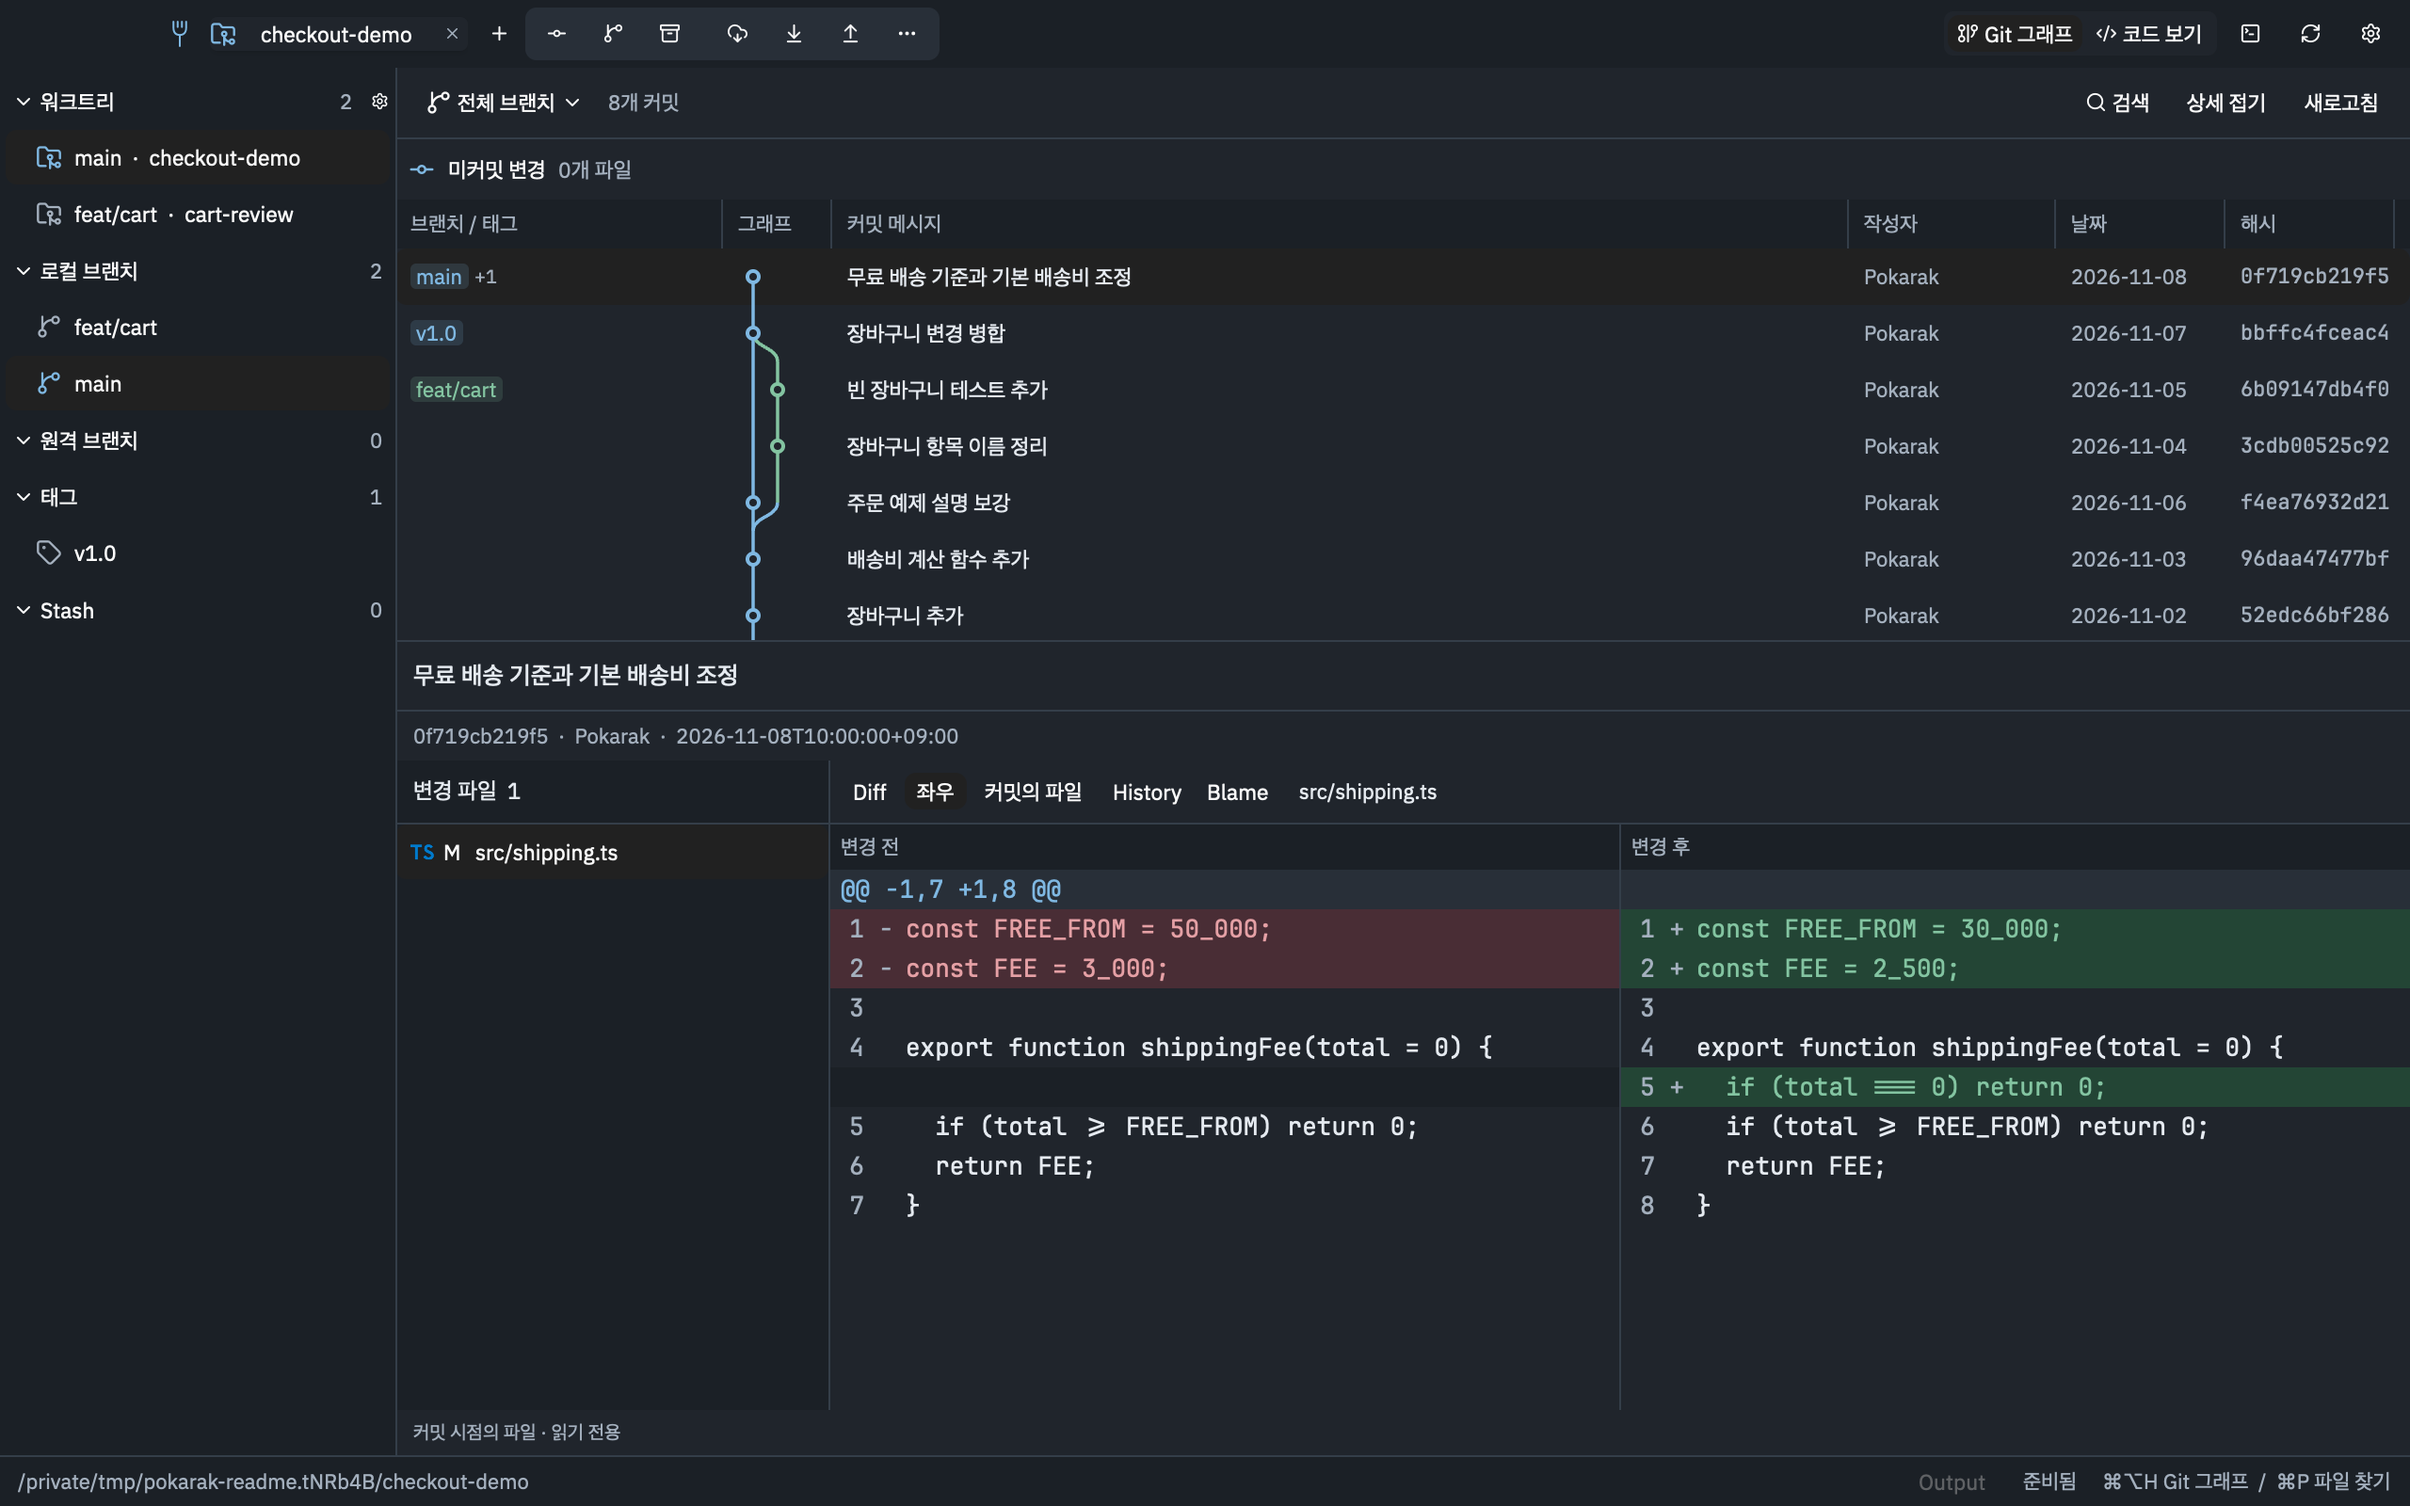
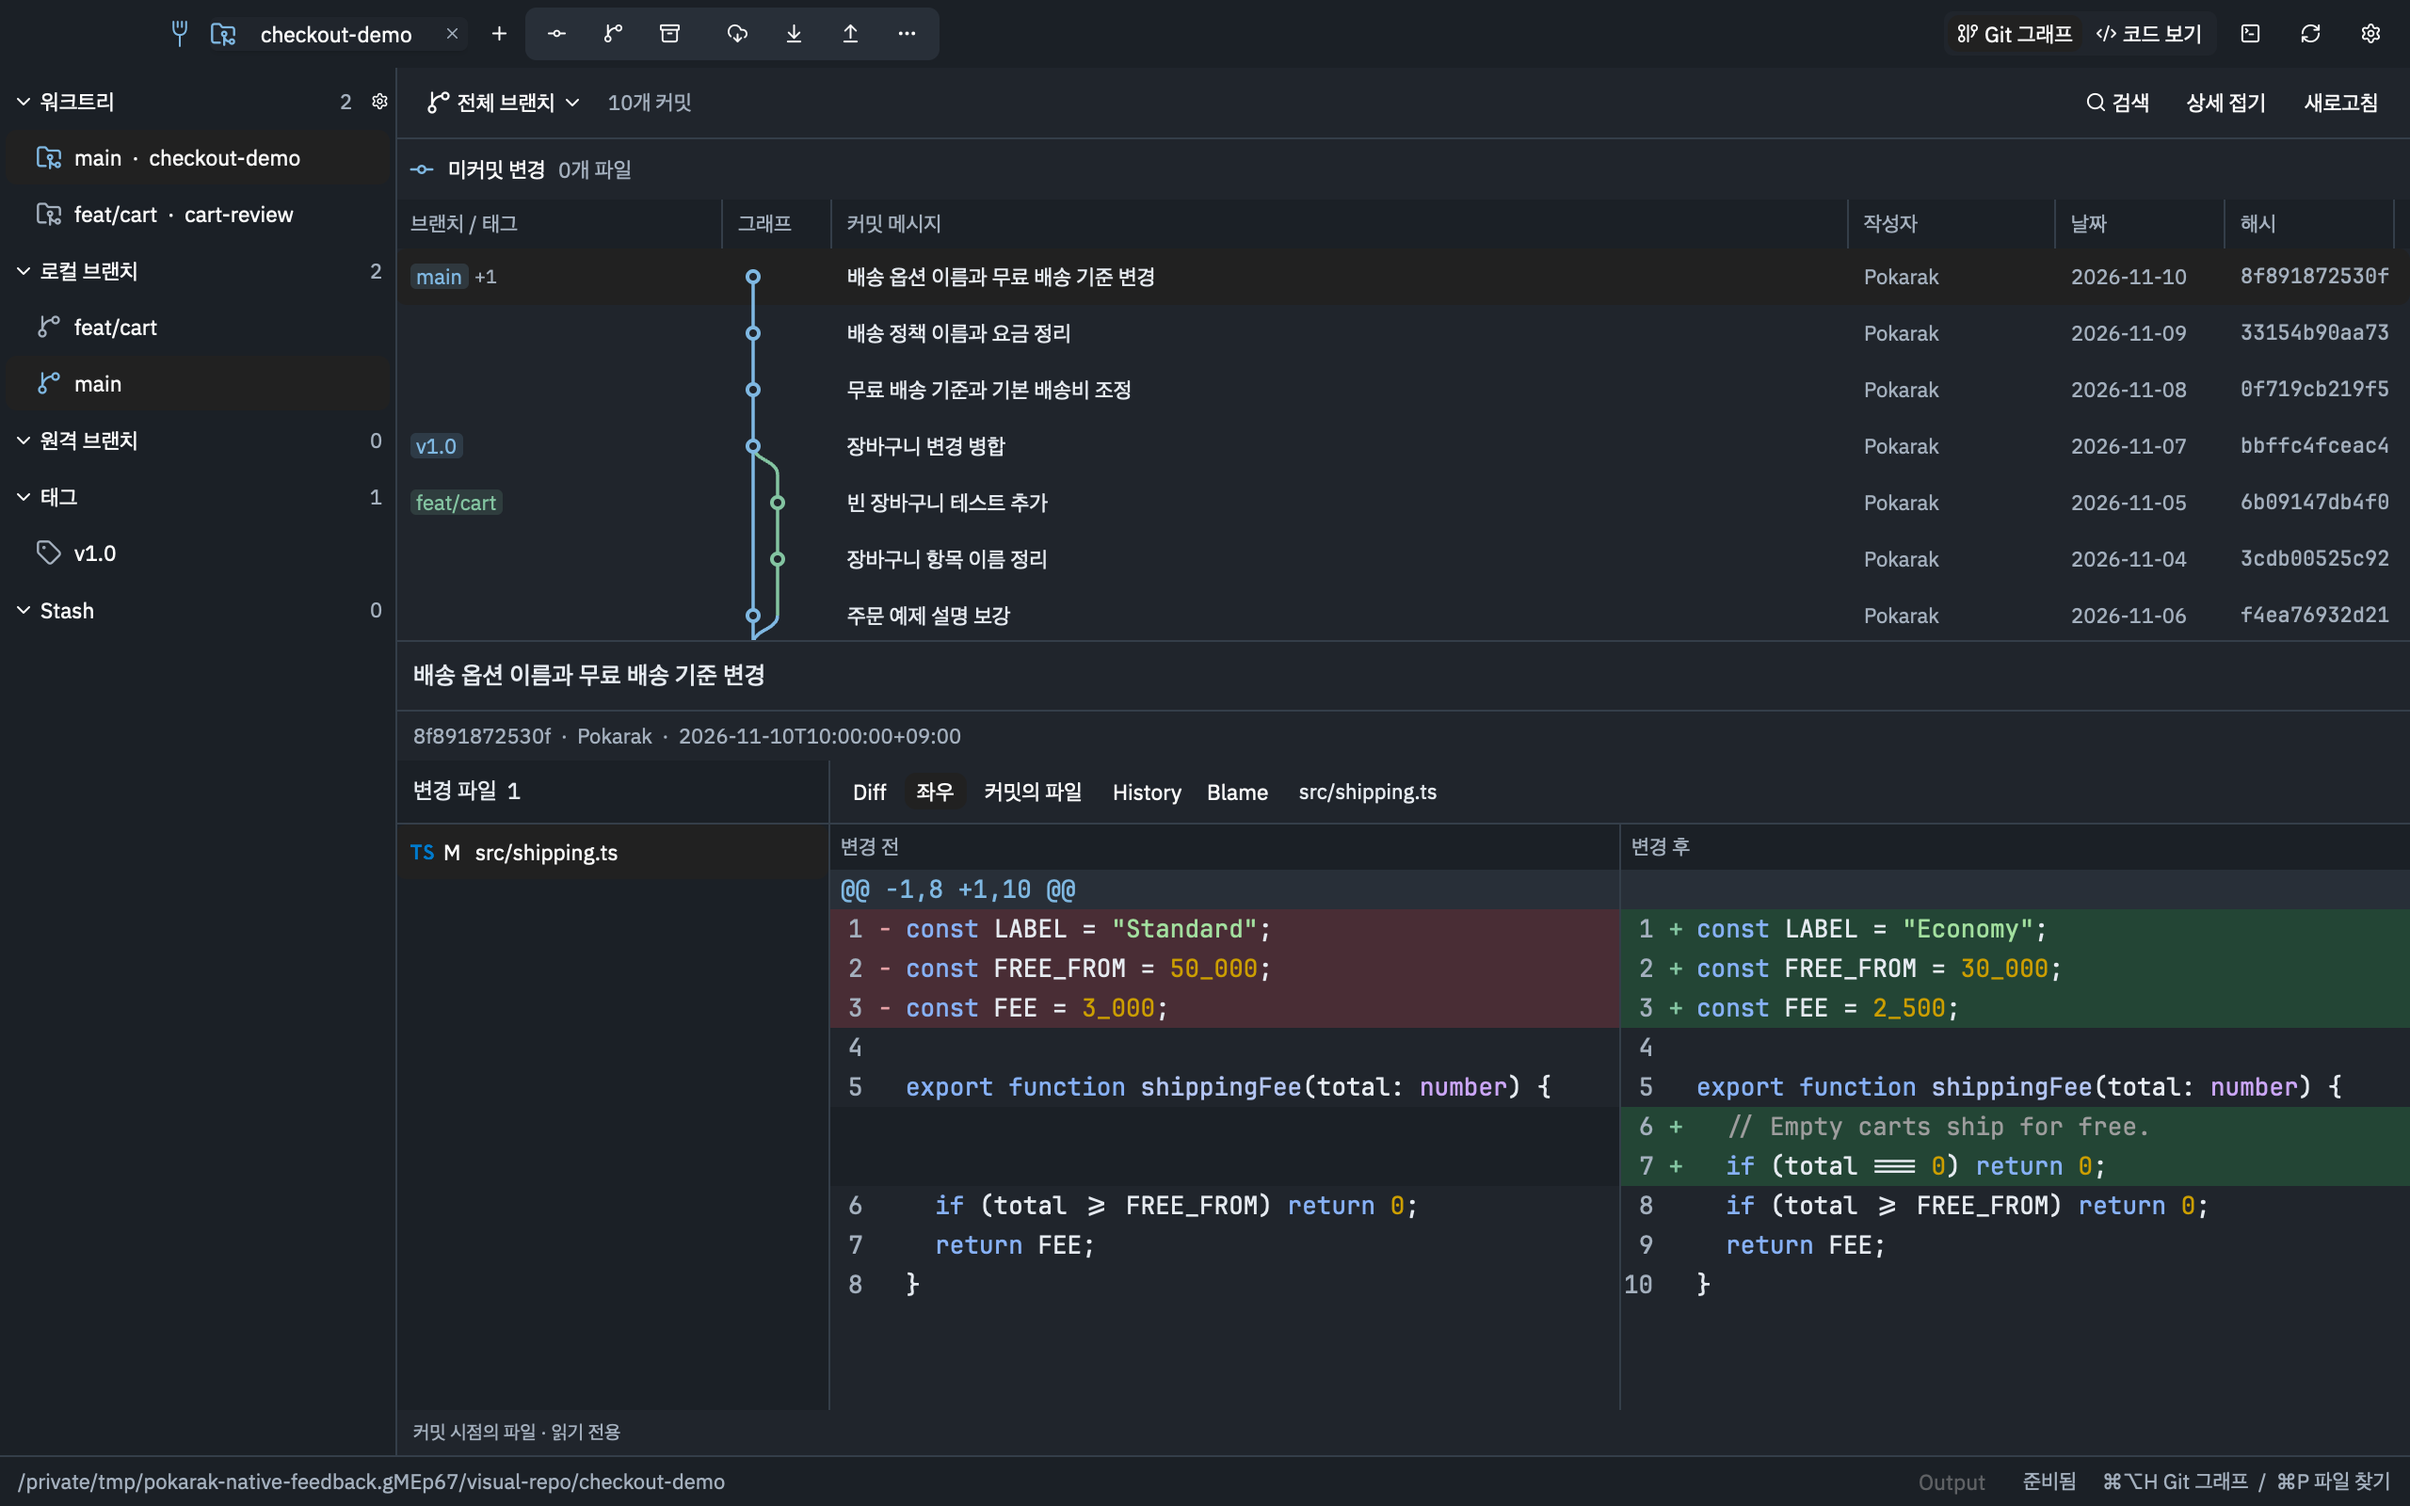
docs: show syntax highlighting in native diff and terminal previews

diff --git a/DESIGN.md b/DESIGN.md
@@ -16,7 +16,7 @@ Repositories open in Git Graph mode. A collapsible group for each of worktrees, 
 
 Selecting a commit opens its changed files and read-only diff below the graph. The file toolbar offers unified and synchronized side-by-side diff, History and Blame, with parent selection for merges. Selecting the working-changes row opens staging, a diff and a commit message in the same pane. Each worktree remembers its branch filter, column widths, side-by-side diff ratio, pane dimensions and collapsed sections.
 
-Code View retains the existing changed files/all files, search and current-file reader, including per-worktree reading positions and language navigation. Settings adjusts interface and code font sizes independently and provides an application-wide zoom. Unified and side-by-side patches identify additions and deletions with color and signs in both themes. File/text search switches to Code View. Historical editors never invoke current-source language navigation. Project/worktree opens return to the graph and reject old asynchronous history results. Footer: worktree path and loading/analysis status. The worktree sidebar has no explanatory footer caption.
+Code View retains the existing changed files/all files, search and current-file reader, including per-worktree reading positions and language navigation. Settings adjusts interface and code font sizes independently and provides an application-wide zoom. Unified and side-by-side patches keep the language colors of Code View. Background tints and gutter signs identify additions and deletions in both themes. The two sides use their own paths and source snapshots so a rename or a multiline comment can change how the same text is colored. File/text search switches to Code View. Historical editors never invoke current-source language navigation. Project/worktree opens return to the graph and reject old asynchronous history results. Footer: worktree path and loading/analysis status. The worktree sidebar has no explanatory footer caption.
 
 ## Signature behavior
 Each worktree restores its exact reading context. The current comparison and worktree stay visible as the code reader moves through definitions and back. New filesystem data prompts refresh without yanking the current reading position.
